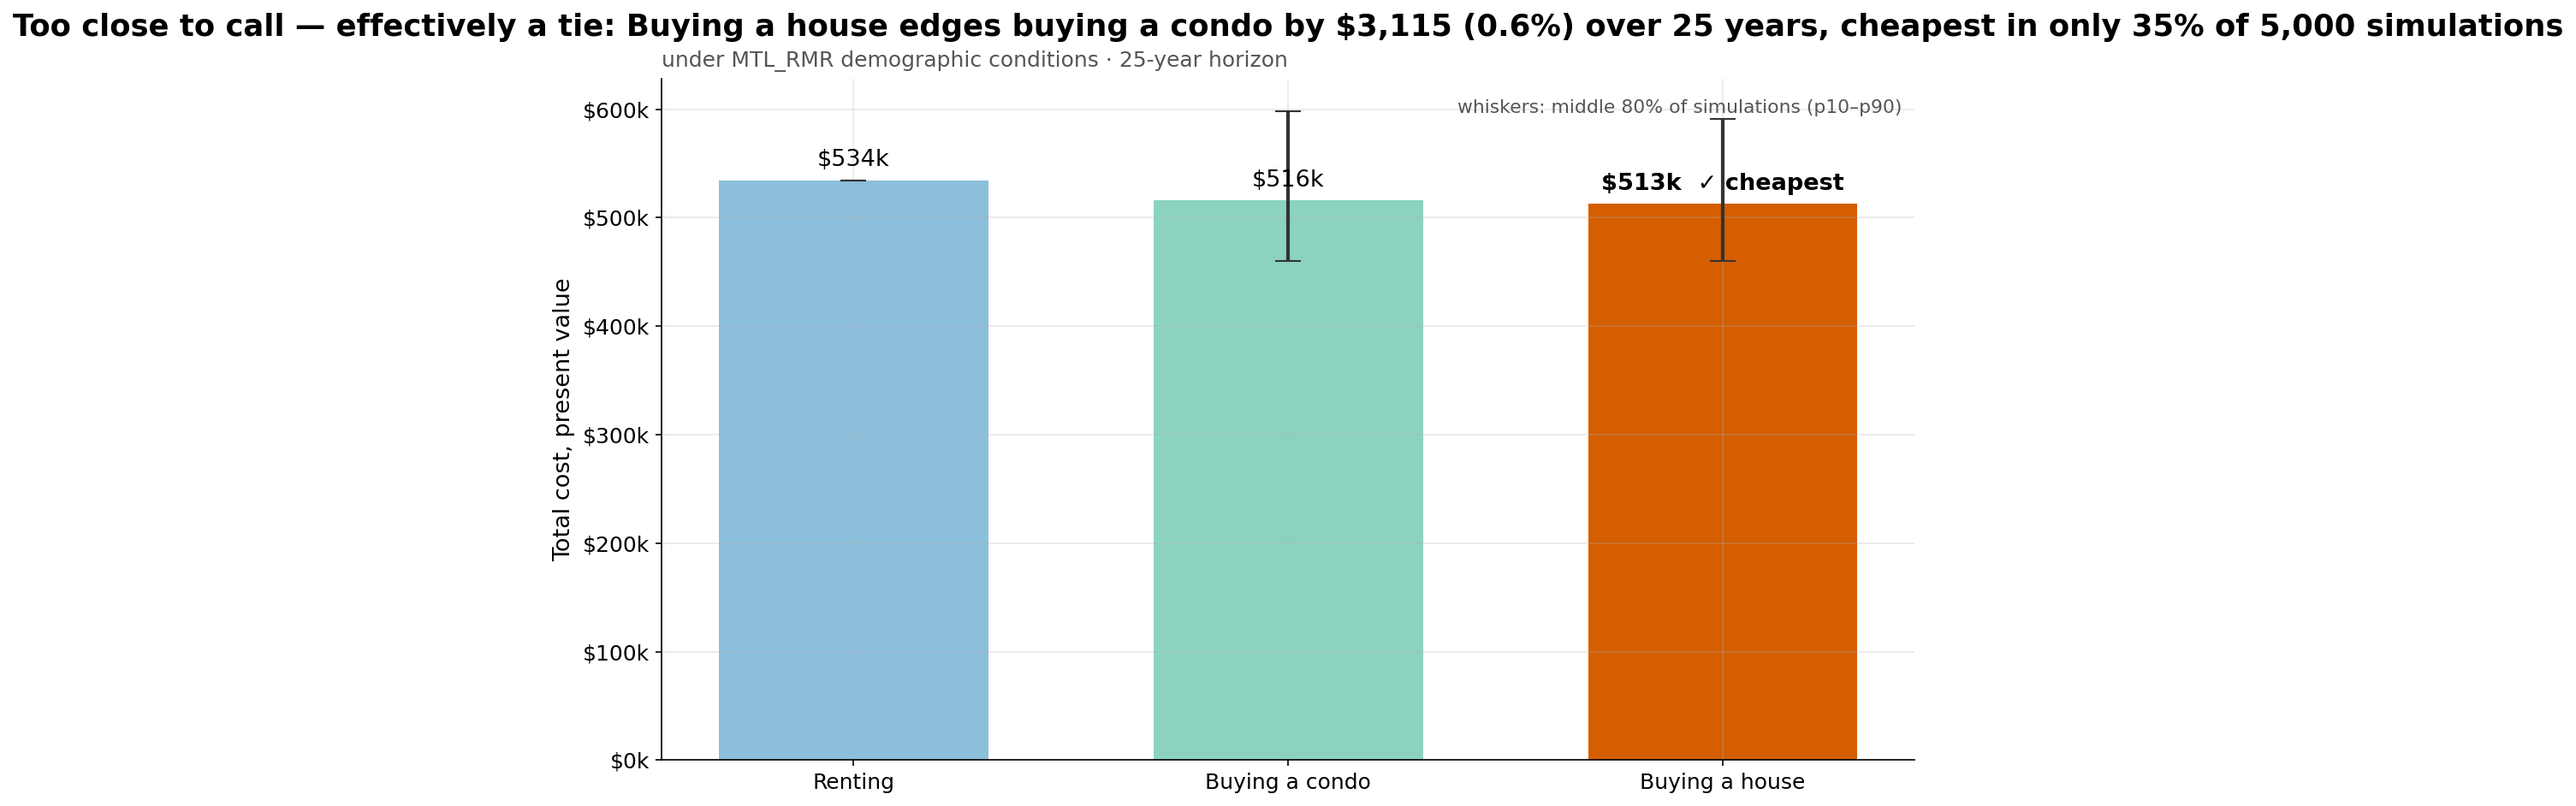
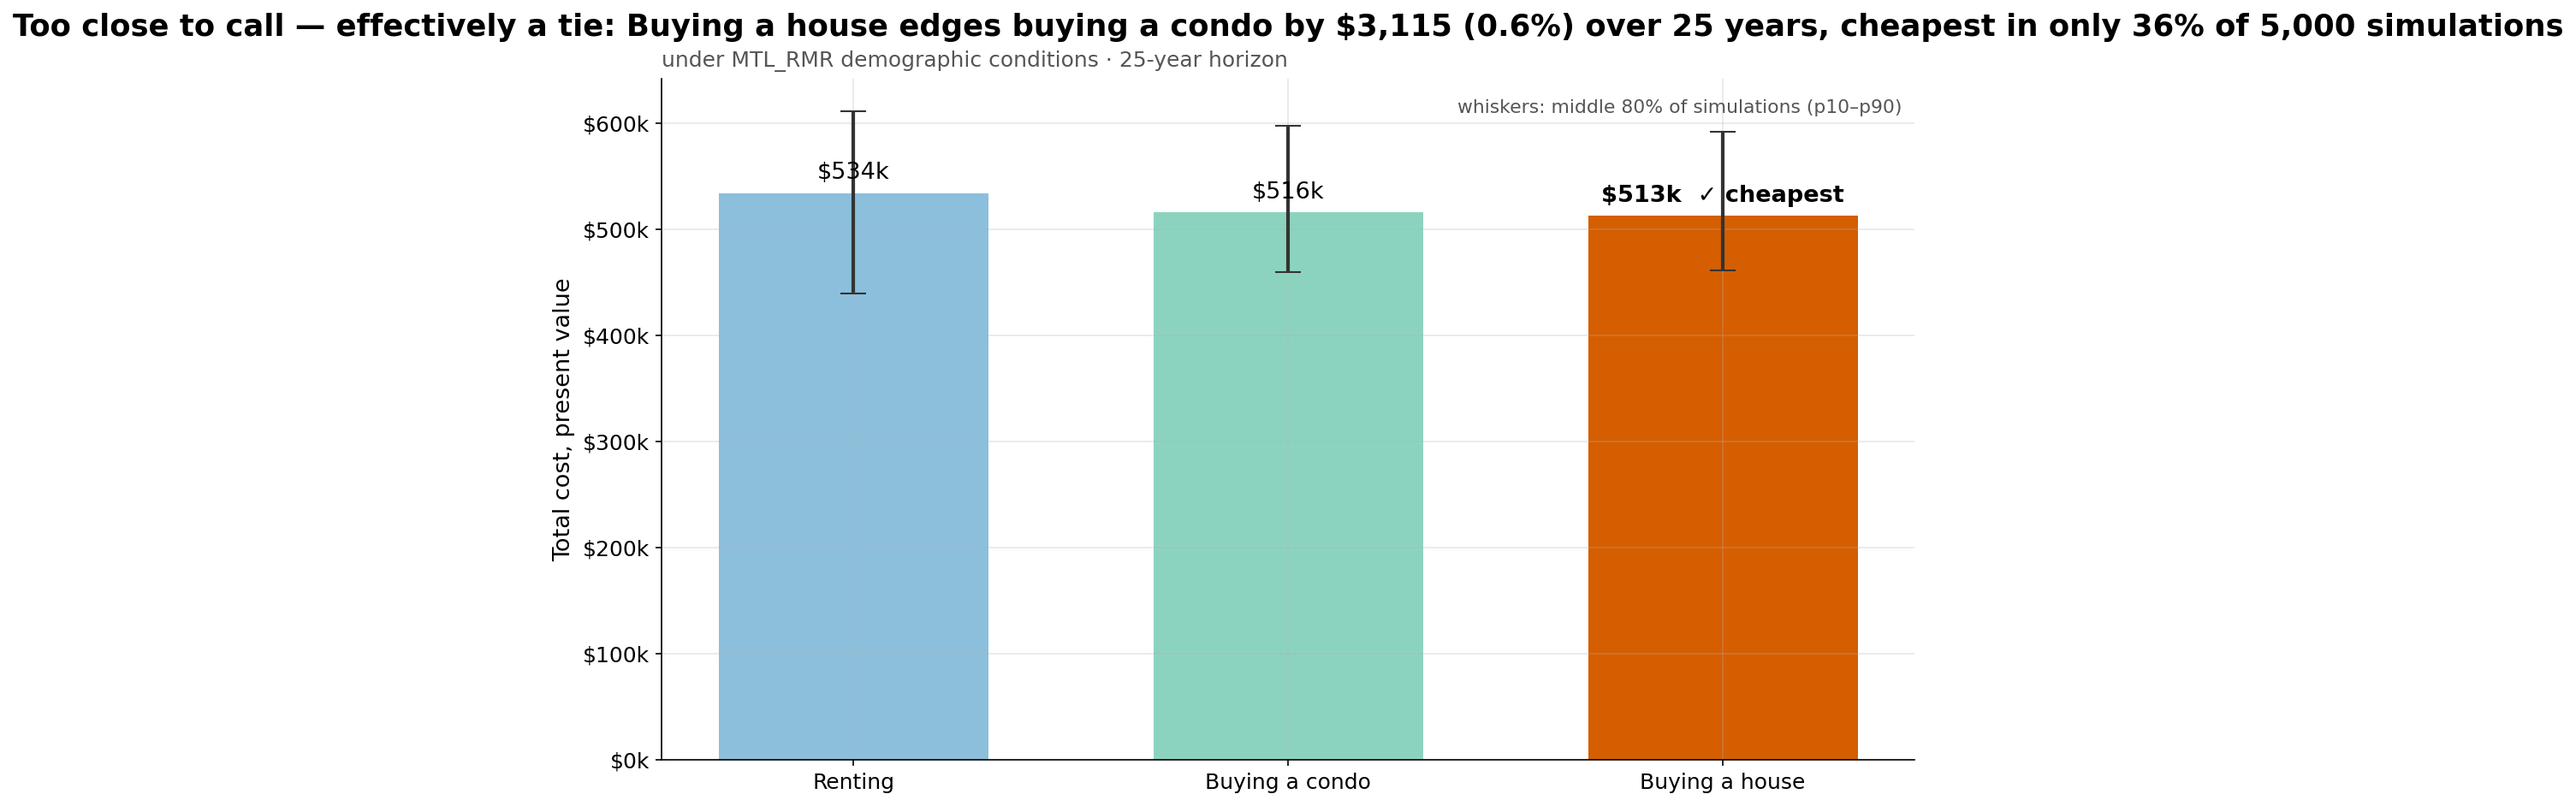
examples: the showcase carries renter-side return volatility (0.10, 60/40) so its tails are like-for-like with the price-shock channel; story regenerated

diff --git a/docs/story/STORY.md b/docs/story/STORY.md
@@ -2,15 +2,13 @@
 
 # The story of this housing decision
 
-**Too close to call — effectively a tie: Buying a house edges buying a condo by $3,115 (0.6%) over 25 years, cheapest in only 35% of 5,000 simulations** — under MTL_RMR demographic conditions · 25-year horizon.
-
-> warning: asymmetric tails: an owned option carries a price_shock channel while simulation.investment_return_vol=0 leaves the renter's capital unable to lose — set investment_return_vol (0.10 ≈ 60/40 portfolio) or drop price_shock for a like-for-like worst case
+**Too close to call — effectively a tie: Buying a house edges buying a condo by $3,115 (0.6%) over 25 years, cheapest in only 36% of 5,000 simulations** — under MTL_RMR demographic conditions · 25-year horizon.
 
 Demographic prior: MTL_RMR demand model (ISQ 2026 scenarios, 2021 census) · constants as of 2026-07-21 · simulation year 1 = calendar 2026, bands 2030/2035/2040/2045/2050 · mapping v1: excess-demand rate → real price drift through a linear-through-origin β prior with the uniform β demoflow pinned; horizon bands (2030…2050) are piecewise-constant with no interpolation; drawdown_weight_tilt multiplies the user's price-shock hazard (S4b sketch §1 slots 2–3, §3) · 13 pinned sources (sha256 in --json): StatCan 98-10-0231-01; ISQ arrival flows (RA); ISQ arrival flows (RMR); derived: headship rate by single year of age; StatCan 98-10-0232-01; derived: living-arrangement shares; StatCan 98-10-0134-01; CIA CPM2014 mortality + CPM-B scale; derived: ownership rate by geography × age; derived: HORS_RMR ownership curve; ISQ population scenarios (QC); ISQ population scenarios (RA); ISQ population scenarios (RMR).
 
 ## Act — The answer
 
-Too close to call — effectively a tie: Buying a house edges buying a condo by $3,115 (0.6%) over 25 years, cheapest in only 35% of 5,000 simulations
+Too close to call — effectively a tie: Buying a house edges buying a condo by $3,115 (0.6%) over 25 years, cheapest in only 36% of 5,000 simulations
 
 ![The answer](act1_the_answer.png)
 
@@ -22,7 +20,7 @@ Renting costs less out of pocket every single year — the ranking never flips (
 
 ## Act — The uncertainty
 
-In 35% of 5,000 simulations, buying a house came out cheapest.
+In 36% of 5,000 simulations, buying a house came out cheapest.
 
 ![The uncertainty](act3_the_uncertainty.png)
 
